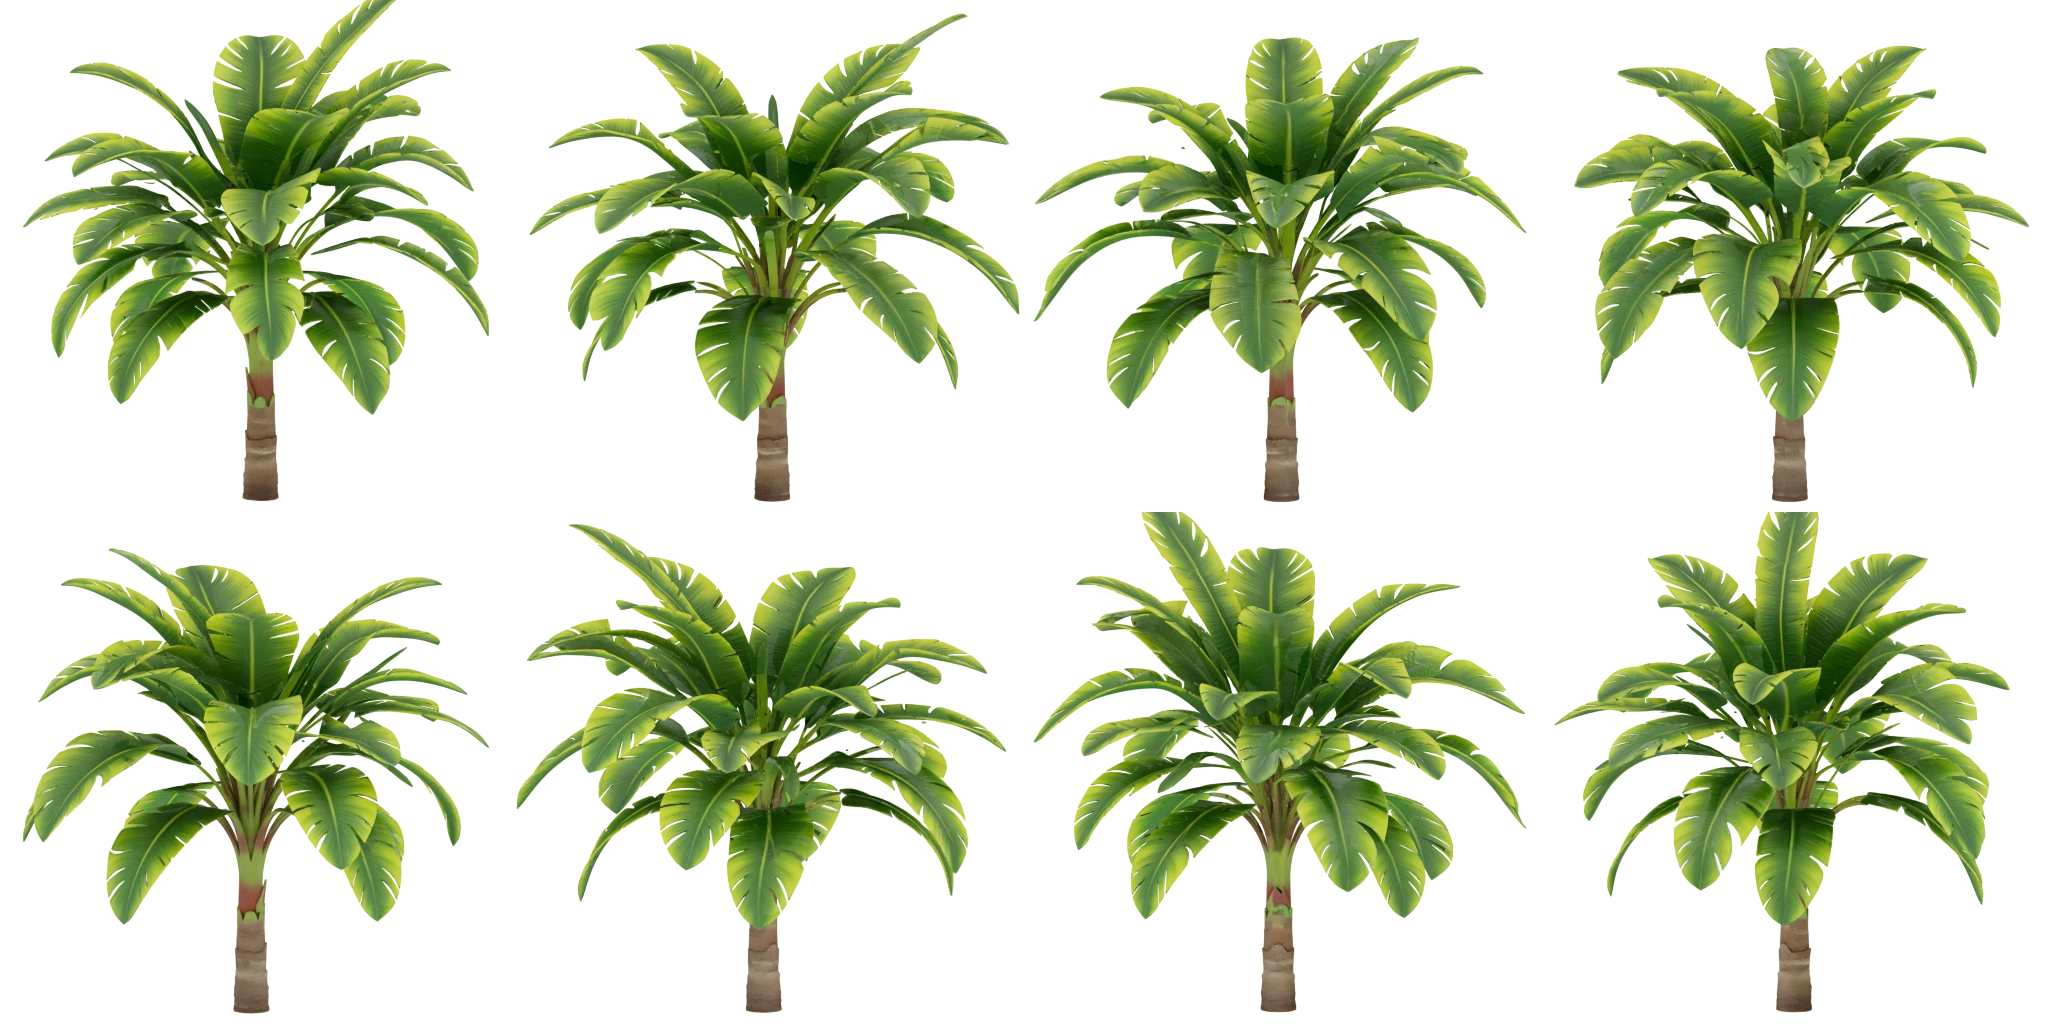
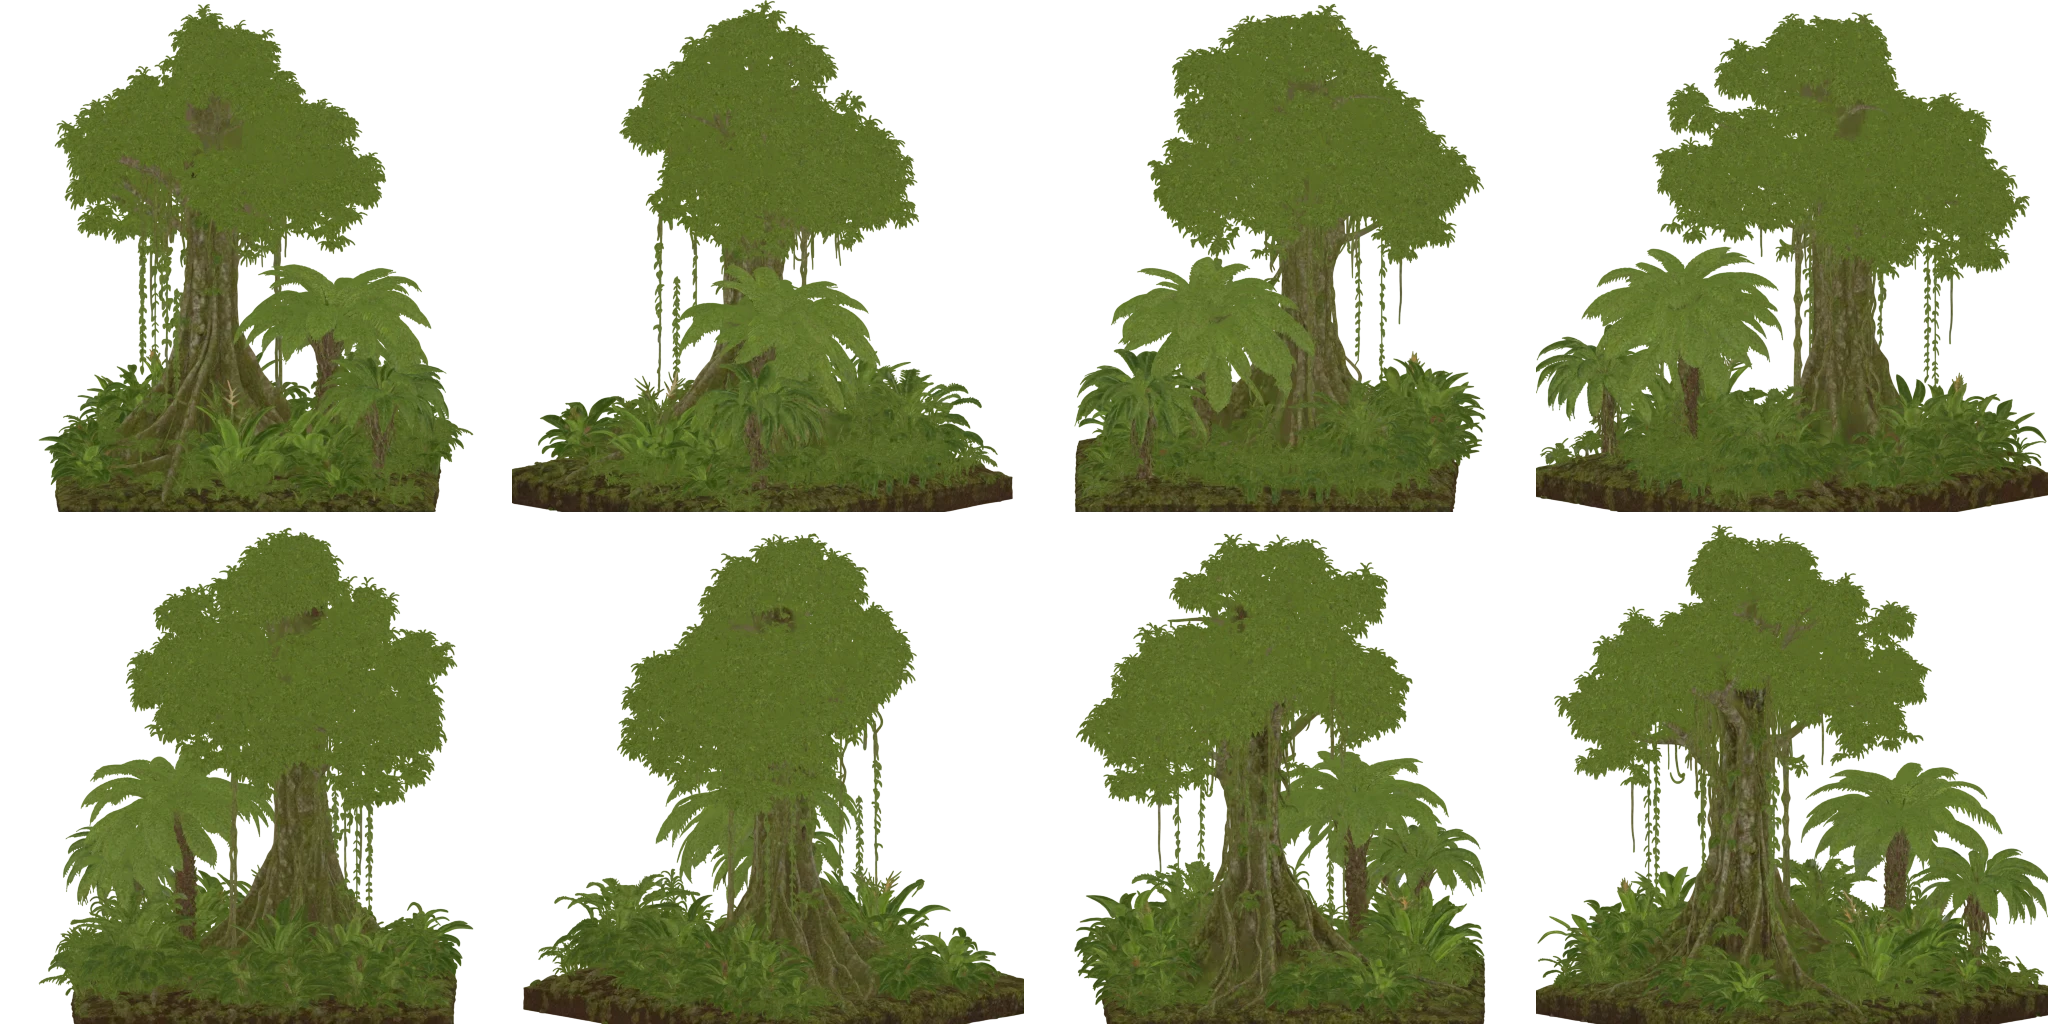
Kuranda tile impostor: the real rainforest tile, not the banana plant
The first impostor was made from an older file with a similar name (a single
banana-leaf plant). Now Ken's square rainforest tile (buttressed fig, vines,
tree fern, ferns; 7.6 million triangles), 14 m wide and about 16 m tall,
each card sunk 0.7 m to hide the tile's soil block. Measured: 3,260,579
triangles a frame, 303 draw calls, 60 fps (RTX 4070 laptop, q=high).

diff --git a/js/levels/kuranda-scene.js b/js/levels/kuranda-scene.js
@@ -169,7 +169,9 @@ export function buildKuranda(scene, q, realism = null, models = new Map()) {
   // model is 1.25 million triangles; each card is 2), and the tree pictures
   // carry on further out.
   const TILE = 14, TILE_INNER = 24, TILE_OUTER = TILE_INNER + 2 * TILE * 0.9 + 1;   // two rows (bandCells steps 0.9 of a tile)
-  for (const c of bandCells(TILE_INNER, TILE_OUTER, STREET.z0 - 30, STREET.z1 + 30, TILE)) trees.add('rainforest', c.x, 0, c.z, 11 + rnd() * 3);
+  // A tile 14 m wide stands about 16 m tall (the fig). It sits on a block of
+  // soil, so each card is sunk 0.7 m to hide the block's brown sides.
+  for (const c of bandCells(TILE_INNER, TILE_OUTER, STREET.z0 - 30, STREET.z1 + 30, TILE)) trees.add('rainforest', c.x, -0.7, c.z, 15 + rnd() * 2);
   const count = q.name === 'high' ? 260 : q.name === 'medium' ? 180 : 100;
   for (let n = 0, tries = 0; n < count && tries < count * 10; tries++) {
     const x = (rnd() * 2 - 1) * 120, z = STREET.z0 - 40 + rnd() * (len + 120);

diff --git a/js/trees.js b/js/trees.js
@@ -24,7 +24,7 @@ const KINDS = {
   eucalyptus: { frames: 8, cols: 4, rows: 2, size: 1.98494, height: 1.90860, base: 0.01923 },
   palm:       { frames: 8, cols: 4, rows: 2, size: 1.97984, height: 1.90369, base: 0.01923 },
   umbrella:   { frames: 8, cols: 4, rows: 2, size: 1.97950, height: 1.90337, base: 0.01923 },
-  rainforest: { frames: 8, cols: 4, rows: 2, size: 1.97241, height: 1.89498, base: 0.01963 },   // Ken's Kuranda rainforest tile
+  rainforest: { frames: 8, cols: 4, rows: 2, size: 1.97548, height: 1.89950, base: 0.01923 },   // Ken's Kuranda rainforest tile
 };
 
 const loader = new THREE.TextureLoader();
